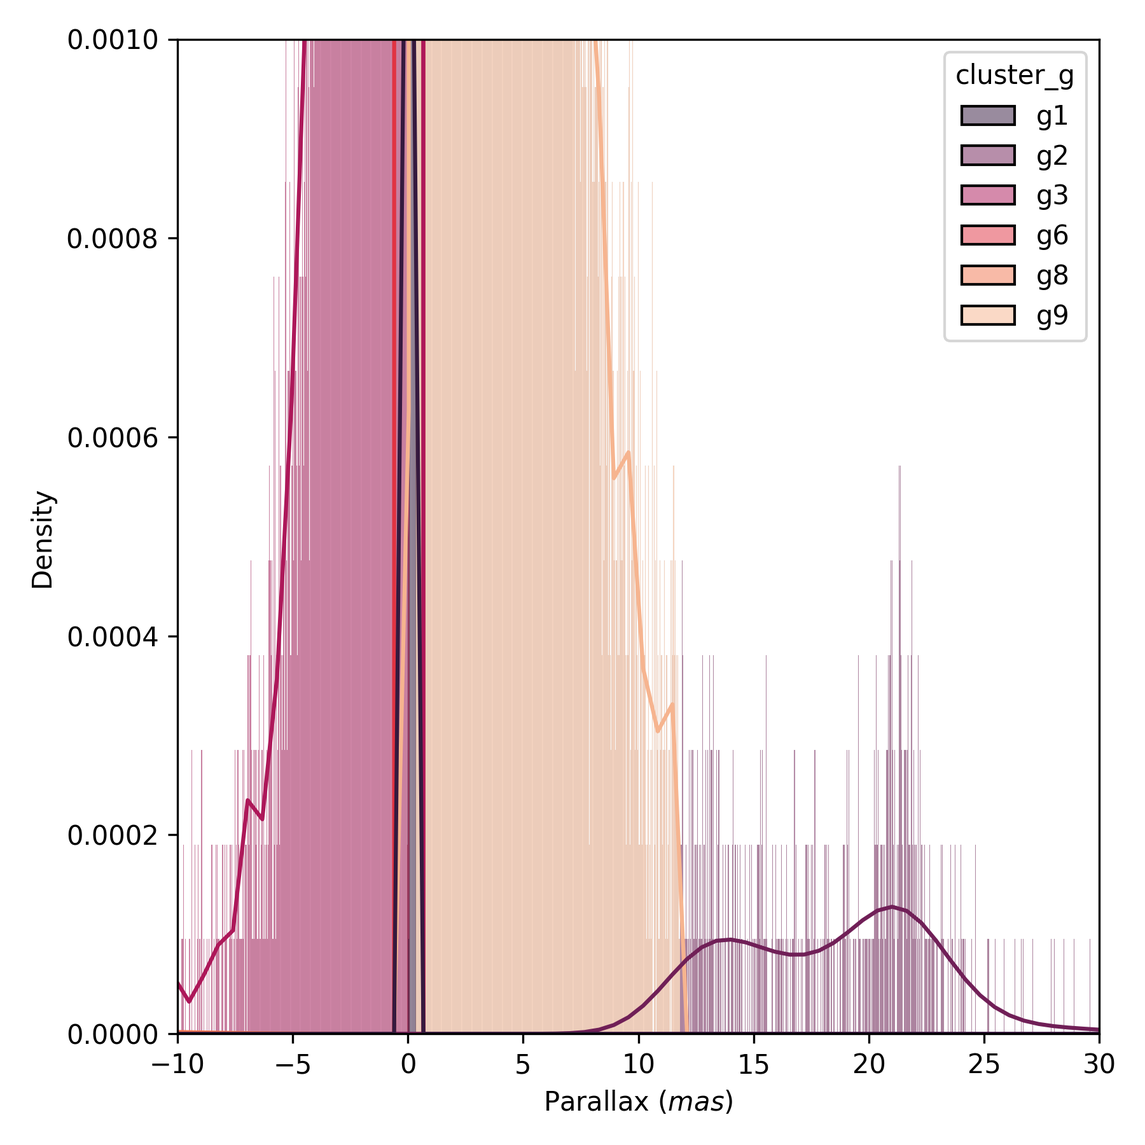
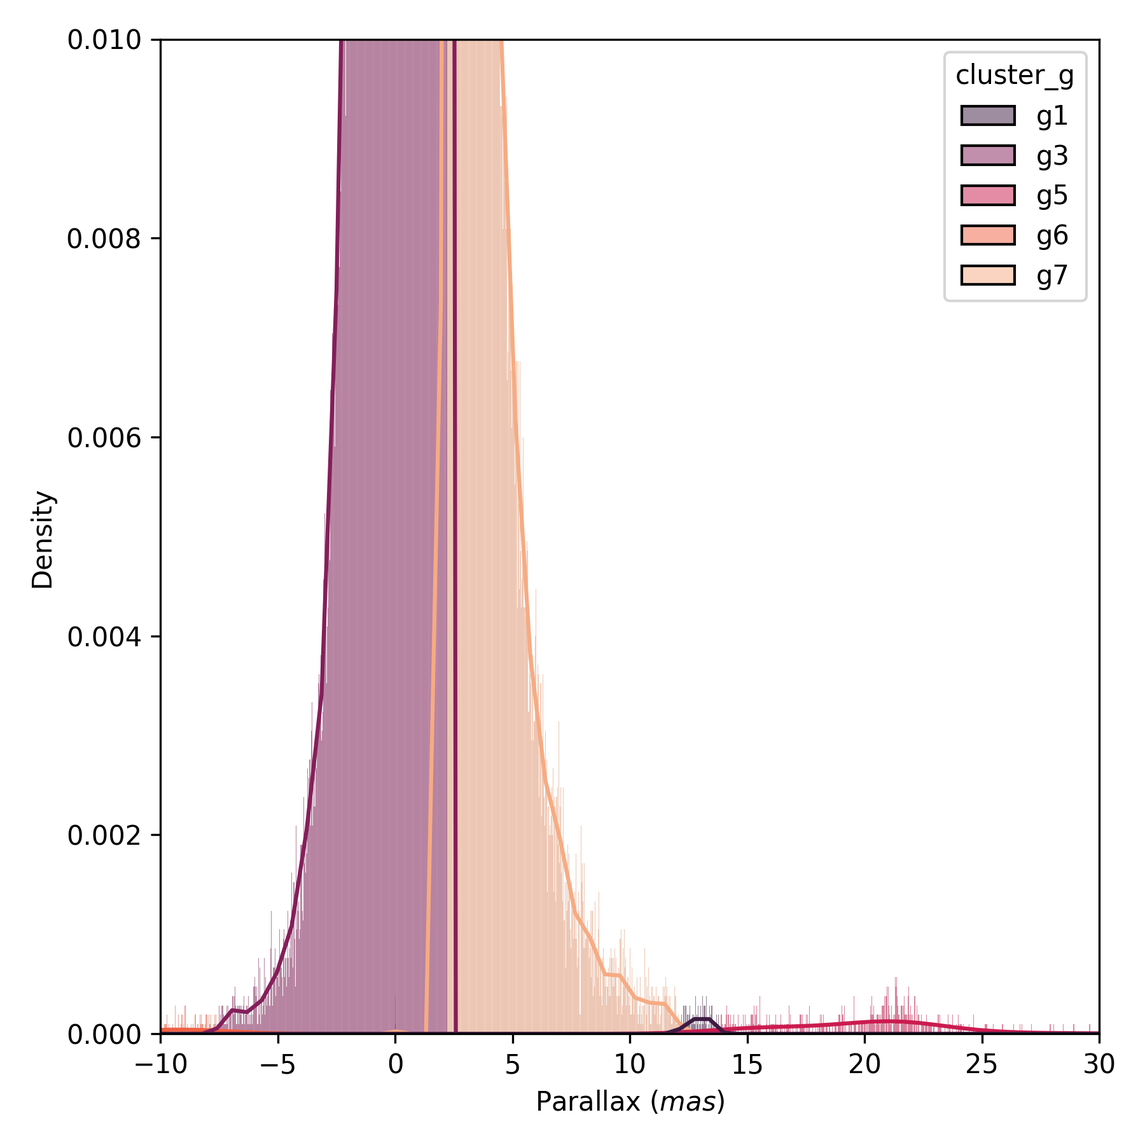
thesis: Review Results

diff --git a/thesis/thesis.tex b/thesis/thesis.tex
@@ -765,12 +765,17 @@ We use it to relate both features and therefore, to force our model to keep them
     \centering
     \includegraphics[width=\textwidth]{../figures/melotte_22/features_melotte_22.png}
   \end{subfigure}
-  \caption{Melotte 22 feature pairplot}
-  % TODO: Ampliar la descripción de la figura
+  \caption{Pairwise relationships among variables using Melotte 22 data}
   \label{fig:features_melotte_22}
 \end{figure}
 
 \newpage
+
+Figure \ref{fig:features_melotte_22} shows a pairwise relationship among some features available
+in the dataset for Melotte 22 data.
+The diagonal of the grid shows the marginal distribution of the data in each column.
+This plot can be useful to find correlations between pairs of variables or
+to identify resonances in certain variables such as those in the parallax feature.
 
 In summary, these are the features we are going to use as sources for our clustering models:
 
@@ -866,7 +871,6 @@ It shows how to estimate the best number of clusters for Melotte 22 by using \ve
 \begin{minted}{python}
   n_clusters, kmeans = estimate_n_clusters(melotte22_df,
                                            min_clusters=3, max_clusters=7)
-  # Output
   # Silhouette score for 3 clusters: 0.5420
   # Silhouette score for 4 clusters: 0.5393
   # Silhouette score for 5 clusters: 0.5608
@@ -1071,7 +1075,7 @@ Clusterix+TOPCAT method, and the results obtained for each step of this method (
 \begin{table}[h!]
   \begin{center}
     \begin{tabular}{l|c|c|c|c}
-      \textbf{Source / method} & \textbf{$\mu_{\alpha}$ $(mas/yr^{-1})$} & \textbf{$\mu_{\delta}$ $(mas/yr^{-1})$} & \textbf{$\varpi$ $(mas)$} & \emph{\# stars} \\
+      \textbf{Source / method} & \emph{$\mu_{\alpha}$ $(mas/yr^{-1})$} & \emph{$\mu_{\delta}$ $(mas/yr^{-1})$} & \emph{$\varpi$ $(mas)$} & \emph{\# stars} \\
       \hline
       \textbf{Simbad.u-strasbg.fr}\tablefootnote{Results have been taken from \protect\citeA[p.~25. Table A.3. Pleiades]{babusiaux2018gaia}} &
         19.997 $\pm$ 0.127 & -45.548 $\pm$ 0.101 & 7.364 $\pm$ 0.005 & 1326 \\
@@ -1080,30 +1084,34 @@ Clusterix+TOPCAT method, and the results obtained for each step of this method (
       DEC & 23.67 $\pm$ 38.33 & -46.23 $\pm$ 44.54 & 8.04 $\pm$ 2.59 & 878 \\
       \textbf{DEC (filtered)} & 19.50 $\pm$ 8.59 & -44.23 $\pm$ 8.17 & 7.42 $\pm$ 0.1 & 438 \\
     \end{tabular}
-    \caption{Melotte 22. The parameters shown are proper motion in right ascension and declination, parallax and number of stars with their respective deviations.}
+    \caption{Parameters shown are proper motion in right ascension and declination, parallax
+             with their respective deviations and number of stars corresponding to Melotte 22 data.}
     \label{tab:results_melotte_22}
   \end{center}
 \end{table}
 
 \chapter{Results}
 
-We have seen in the previous chapter that the DEC model is capable of refining the clustering selection made by K-Means
+We have seen in the previous chapter that DEC model is capable
+of refining the clustering selection made by K-Means
 hence helping us have a more precise characterization of the cluster.
-Now, in order to validate our model and be able to estimate how good or bad it is,
-we need a different method to characterize the studied clusters and compare our results with the validation method.
+Now, in order to validate our model and to be able to estimate how good or bad it is,
+we need a different technique to characterize the studied clusters and compare our results
+with those obtained with the validation method.
 
-For that purpose, we have used an alternative method based on Virtual Observatory (VO) tools such as Clusterix and TOPCAT,
-to characterize the studied clusters.
+For that purpose, we have used an alternative method based on Virtual Observatory (VO) tools
+such as Clusterix and TOPCAT, to characterize the studied clusters.
 
 \section{Cluster Characterization with VO Tools}
 
-The aim of this section is to highlight the procedure differences between our method and this new one,
-as well as using the results provided by this method to validate ours results.
-This validation method uses a combination of VO tools: Clusterix 2.0 + TOPCAT.
-We take Melotte 22 again as our study case to make easier comparisons between the method presented in Chapter \ref{chap:method}
-and this alternative one.
+The aim of this section is to highlight the procedure differences between our method and the validation one,
+as well as using the results provided by the second technique to validate ours results.
+This validation method uses a combination of VO tools: \emph{Clusterix 2.0 + TOPCAT}.
+We take Melotte 22 again as our study case to make easier the comparison process between
+the method presented in Chapter \ref{chap:method} and the alternative one.
 
-The initial point is taking advantage of Clusterix in order to avoid a subjective and manual selection for the cluster members.
+The initial point is taking advantage of Clusterix in order to avoid a subjective
+and manual selection for the cluster members.
 Figure \ref{fig:clusterix_selection} shows a screenshot of the Clusterix 2.0 selection panel.
 
 \begin{figure}[htbp]
@@ -1113,21 +1121,24 @@ Figure \ref{fig:clusterix_selection} shows a screenshot of the Clusterix 2.0 sel
     \includegraphics[width=\textwidth]{../figures/clusterix/clusterix_selection_panel_melotte_22.png}
   \end{subfigure}
   \caption{Clusterix 2.0 selection panel with Melotte 22 settings.
-           The coordinates correspond to the center of Melotte 22 cluster,
+           Coordinates correspond to the center of Melotte 22 cluster,
            while the radius is the value registered for this cluster in the
            OpenClust catalogue multiplied by 1.5 (as explained in \ref{sec:data_mining})}
   \label{fig:clusterix_selection}
 \end{figure}
 
-This panel allows us to select a region by its coordinates or by searching a cluster by its name in the Gaia DR2 catalogue,
-as well as specify the size of the region by introducing its radius.
-We can also set limit values in magnitude (for both minimum and maximum) to discard stars outside these limits.
+This panel allows us to select a region by its coordinates
+or by searching a cluster by its name in the Gaia DR2 catalogue,
+as well as to specify the size of the region by introducing its radius.
+We can also set limit values in magnitude (for both minimum and maximum)
+to discard stars outside these limits.
 Another setting is the flag to enable or disable the \emph{Q-Filter}.
 This filter discards those stars with \emph{null} values in relevant fields.
 
-Clusterix returns a position map for the downloaded stars from Gaia DR2 database using Aladin \cite{bonnarel2000aladin} as an atlas of the sky
-(See Figure \ref{fig:aladin_melotte_22}).
-At this point, we can choose sending the recovered data to TOPCAT or Aladin, or continue to the next step of this assistant.
+Clusterix returns a position map for the downloaded stars from Gaia DR2 database
+using Aladin \cite{bonnarel2000aladin} as an atlas of the sky (See Figure \ref{fig:aladin_melotte_22}).
+At this point, we can choose sending the recovered data to TOPCAT or Aladin,
+or continue to the next step of the assistant.
 
 We select the second choice and proceed with the proper motion frequency space analysis.
 
@@ -1146,24 +1157,33 @@ In this step, we define three regions that will be used for the frequency analys
 \begin{itemize}
   \item \textbf{Inner region} (\emph{c+f}), with stars that belong to the OC and field stars.
   \item \textbf{External region} or field region (\emph{f}), with stars that do not belong the open cluster.
-  \item \textbf{Void region}. This region is excluded from the analysis since it is supposed to be a transition region with stars that could belong the OC.
+  \item \textbf{Void region}. This region is excluded from the analysis since it is supposed
+                to be a transition region with stars that could belong the OC.
 \end{itemize}
 
-It is necessary to remark the importance of this step, since the selection of these regions is critical to get a good result.
-However, despite how crucial is this selection, there is no general rule to define these regions.
-We only have two references: the radius of the downloaded region and the estimated size for the open cluster that sets the \emph{inner radius}.
-The other two radius must be set by trial and error. In general, they should be large enough to be sure we are not taking polluted regions.
-This is a tedious process that requires several tries before achieving good enough probability values.
+It is necessary to remark the importance of this step,
+since the selection of these regions is critical to get a good result.
+However, despite how crucial this step is, there is no general rule to define these regions.
+We only have two references:
+the radius of the downloaded region and the estimated size for the OC that sets the \emph{inner radius}.
+The other two radius must be set by trial and error.
+In general, they should be large enough to be sure that we are not taking polluted regions.
+This is a tedious process and requires several tries before achieving good enough probability values.
 
-Furthermore, it is necessary to know in advance some additional profiles of the cluster, in addition to the estimated size.
-For example, in the case of Melotte 22, the proper motion in declination direction of the membership stars around $-45 mas \cdot year^{-1}$,
+Furthermore, it is necessary to know in advance some additional profiles of the cluster,
+in addition to the estimated size.
+For example, in the case of Melotte 22, the proper motion in declination direction
+of the membership stars around $-45 mas \cdot year^{-1}$,
 so it is necessary to open the $\mu$ range above the estimated values (in absolute value).
-If we do not do that we lose the possibility of detection, since Clusterix sets this value to $30 mas \cdot year^{-1}$ by default.
-But even in this case, it is necessary to set a threshold for magnitude values, $G \leq 14$, to help getting the right result.
+If we do not do that we lose the possibility of detection,
+since Clusterix sets this value to $30 mas \cdot year^{-1}$ by default.
+But even in this case, it is necessary to set a threshold for magnitude values,
+$G \leq 14$, to help getting the right result.
 Figure \ref{fig:clusterix_step2_melotte_22} shows the region selection panel on Clusterix 2.0.
 
-This makes the selection process an art rather than a science, not to mention the required previous knowledge on certain profiles of the
-objects to characterize. This puts into question the non-parametric character of the method.
+This makes the selection process an art rather than a science,
+not to mention the required previous knowledge on certain profiles of the objects to characterize.
+This puts into question the \emph{non-parameterized} character of the validation method.
 
 \begin{figure}[htbp]
   \centering
@@ -1175,10 +1195,12 @@ objects to characterize. This puts into question the non-parametric character of
   \label{fig:clusterix_step2_melotte_22}
 \end{figure}
 
-After having set all these parameters, Clusterix performs the proper motion frequency analysis and returns the probability field
+After having set all these parameters,
+Clusterix performs the proper motion frequency analysis and returns the probability field
 associated to each star of the whole region (see Figure \ref{fig:clusterix_probability_melotte_22}).
 
-This step can be repeated over and over again, varying radii and other parameters, until finally reach a valid probability that works.
+This step can be repeated over and over again, varying radii and other parameters,
+until finally reach a valid probability that works.
 The last step presents a table with candidate objects and allows to export this dataset to TOPCAT,
 Aladin and VOSA to perform a deeper filtering and analysis based on the results provided by Clusterix.
 
@@ -1194,12 +1216,15 @@ Aladin and VOSA to perform a deeper filtering and analysis based on the results 
 \end{figure}
 
 Once data is available in TOPCAT, we have to carefully analyze the imported data.
-From there, we can perform a first star selection by excluding those stars with probability value lower than 0.8.
+At this point, we can perform a first stars selection by excluding those stars with probability value lower than 0.8.
 This first result can be taken as a good starting point, but we still need to make some fine tunning.
-As we can see in Figure \ref{fig:topcat_prob_selection_melotte_22}, the selection is too restrictive and we have lost too many stars.
+As we can see in Figure \ref{fig:topcat_prob_selection_melotte_22},
+the selection is too restrictive and we have lost too many stars.
 
-Looking at Figure \ref{fig:topcat_prob_parallax_melotte_22}, we can assume that cluster members are around $7.3mas$ in the parallax histogram.
-Also, Figure \ref{fig:topcat_prob_pm_melotte_22} reveals that cluster stars have low scattering rate in the proper motion configuration space.
+Looking at Figure \ref{fig:topcat_prob_parallax_melotte_22},
+we can assume that cluster members are around $7.3mas$ in the parallax histogram.
+Also, Figure \ref{fig:topcat_prob_pm_melotte_22} reveals that cluster stars
+have low scattering rate in the proper motion configuration space.
 
 \begin{figure}[htbp]
   \centering
@@ -1223,9 +1248,11 @@ Also, Figure \ref{fig:topcat_prob_pm_melotte_22} reveals that cluster stars have
   \label{fig:topcat_prob_selection_melotte_22}
 \end{figure}
 
-Taken these observations into account, we can proceed to make a new selection based on parallax properties.
-Our second selection makes use of the values obtained with the previous selection for parallax and its standard deviation and
-selects those stars from the whole set which fall inside the limits $7.304mas \pm 0.797$ (see Figure \ref{fig:topcat_parallax_melotte_22}).
+Taking these observations into account,
+we can proceed to make a new selection based on parallax properties.
+Our second selection makes use of the values obtained with the previous selection
+for parallax and its standard deviation and selects those stars from the whole set
+which fall inside the limits $7.304mas \pm 0.797$ (see Figure \ref{fig:topcat_parallax_melotte_22}).
 
 \begin{figure}[htbp]
   \centering
@@ -1250,7 +1277,8 @@ selects those stars from the whole set which fall inside the limits $7.304mas \p
 \end{figure}
 
 Looking at the H-R diagrams (Figure \ref{fig:clusterix_selection_hr_diagrams_melotte_22}),
-we can compare both selections and see how we have extended the selection without getting too much noise around the isochrone curve.
+we can compare both selections and see how we have extended the selection without
+getting too much noise around the isochrone curve.
 
 \begin{figure}[htbp]
   \centering
@@ -1272,8 +1300,8 @@ we can compare both selections and see how we have extended the selection withou
   \label{fig:clusterix_selection_hr_diagrams_melotte_22}
 \end{figure}
 
-Finally, we filter the second selection by discarding those stars whose parallax relative error in absolute value is behind 0.05
-(see Figure \ref{fig:clusterix_final_selection_melotte_22}).
+Finally, we filter the second selection by discarding those stars whose parallax relative error in absolute value
+is behind 0.05 (see Figure \ref{fig:clusterix_final_selection_melotte_22}).
 
 \begin{figure}[htbp]
   \centering
@@ -1295,13 +1323,13 @@ Finally, we filter the second selection by discarding those stars whose parallax
   \label{fig:clusterix_final_selection_melotte_22}
 \end{figure}
 
-For the sake of completeness, Table \ref{tab:results_melotte_22} is shown again,
-in order to compare the results obtained with the validation method and our method.
+For the sake of completeness, Table \ref{tab:results_melotte_22} is shown again.
+This table summarizes the results obtained with the validation technique and our method.
 
 \begin{table}[h!]
   \begin{center}
     \begin{tabular}{l|c|c|c|c}
-      \textbf{Source / method} & \textbf{$\mu_{\alpha}$ $(mas/yr^{-1})$} & \textbf{$\mu_{\delta}$ $(mas/yr^{-1})$} & \textbf{$\varpi$ $(mas)$} & \emph{\# stars} \\
+      \textbf{Source / method} & \emph{$\mu_{\alpha}$ $(mas/yr^{-1})$} & \emph{$\mu_{\delta}$ $(mas/yr^{-1})$} & \emph{$\varpi$ $(mas)$} & \emph{\# stars} \\
       \hline
       \textbf{Simbad.u-strasbg.fr} & 19.997 $\pm$ 0.127 & -45.548 $\pm$ 0.101 & 7.364 $\pm$ 0.005 & 1326 \\
       \textbf{Clusterix+TOPCAT} & 19.98 $\pm$ 1.25 & -45.47 $\pm$ 1.48 & 7.33 $\pm$ 0.21 & 634 \\
@@ -1318,12 +1346,14 @@ Until now, we have focused our study in the open cluster Melotte 22.
 Since our aim is to get a model that fits well for a wide range of clusters,
 we will now proceed to show some results obtained for a selection of clusters with different topologies.
 
-All results have been computed with an Apple Mac Pro Late 2013, 2.7 GHz 12-Core Intel Xeon E5 with two AMD FirePro D700 6GB and 64 GB
+All results have been computed with an Apple Mac Pro Late 2013,
+2.7 GHz 12-Core Intel Xeon E5 with two AMD FirePro D700 6GB and 64 GB
 of memory, running macOS BigSur 11.1, Keras 2.2 and PlaidML 0.7.
 
-The majority of the runnings have taken a few minutes, while big clusters such as Melotte 25, have taken around an hour to perform
-the computations. This contrasts with \citeA{castro2020hunting} work, that used the power of the MareNostrum 42 supercomputer in order
-to perform its calculations.
+The majority of the runnings have taken a few minutes, while big clusters such as Melotte 25,
+have taken around an hour to perform the computations.
+This contrasts with \citeA{castro2020hunting} work,
+that used the power of the MareNostrum 42 supercomputer in order to perform its computations.
 
 \newpage
 
@@ -1430,7 +1460,7 @@ to perform its calculations.
 \begin{table}[h!]
   \begin{center}
     \begin{tabular}{l|c|c|c|c}
-      \textbf{Source / method} & \textbf{$\mu_{\alpha}$ $(mas/yr^{-1})$} & \textbf{$\mu_{\delta}$ $(mas/yr^{-1})$} & \textbf{$\varpi$ $(mas)$} & \emph{\# stars} \\
+      \textbf{Source / method} & \emph{$\mu_{\alpha}$ $(mas/yr^{-1})$} & \emph{$\mu_{\delta}$ $(mas/yr^{-1})$} & \emph{$\varpi$ $(mas)$} & \emph{\# stars} \\
       \hline
       \textbf{Simbad.u-strasbg.fr} & -4.6579 $\pm$ 0.0075 & 11.1517 $\pm$ 0.0075 & 2.4118 $\pm$ 0.0006 & 1727 \\
       Clusterix+TOPCAT & -4.652 $\pm$ 0.523 & 11.203 $\pm$ 0.454 & 2.409 $\pm$ 0.127 & 638 \\
@@ -1551,7 +1581,7 @@ to perform its calculations.
 \begin{table}[h!]
   \begin{center}
     \begin{tabular}{l|c|c|c|c}
-      \textbf{Source / method} & \textbf{$\mu_{\alpha}$ $(mas/yr^{-1})$} & \textbf{$\mu_{\delta}$ $(mas/yr^{-1})$} & \textbf{$\varpi$ $(mas)$} & \emph{\# stars} \\
+      \textbf{Source / method} & \emph{$\mu_{\alpha}$ $(mas/yr^{-1})$} & \emph{$\mu_{\delta}$ $(mas/yr^{-1})$} & \emph{$\varpi$ $(mas)$} & \emph{\# stars} \\
       \hline
       \textbf{Simbad.u-strasbg.fr} & -36.047 $\pm$ 0.110 & -12.917 $\pm$ 0.066 & 5.371 $\pm$ 0.003 & - \\
       Clusterix+TOPCAT & -36.154 $\pm$ 1.001 & -12.909 $\pm$ 0.806 & 5.327 $\pm$ 0.187 & 371 \\
@@ -1672,7 +1702,7 @@ to perform its calculations.
 \begin{table}[h!]
   \begin{center}
     \begin{tabular}{l|c|c|c|c}
-      \textbf{Source / method} & \textbf{$\mu_{\alpha}$ $(mas/yr^{-1})$} & \textbf{$\mu_{\delta}$ $(mas/yr^{-1})$} & \textbf{$\varpi$ $(mas)$} & \emph{\# stars} \\
+      \textbf{Source / method} & \emph{$\mu_{\alpha}$ $(mas/yr^{-1})$} & \emph{$\mu_{\delta}$ $(mas/yr^{-1})$} & \emph{$\varpi$ $(mas)$} & \emph{\# stars} \\
       \hline
       \textbf{Simbad.u-strasbg.fr} & -10.9737 $\pm$ 0.0064 & -2.9396 $\pm$ 0.0063 & 1.1325 $\pm$ 0.0011 & 1194 \\
       Clusterix+TOPCAT & -10.970 $\pm$ 0.322 & -2.958 $\pm$ 0.327 & 1.142 $\pm$ 0.080 & 649 \\
@@ -1780,7 +1810,7 @@ to perform its calculations.
     \begin{tabular}{l|c}
       \textbf{Hyperparameter} & \textbf{Value} \\
       \hline
-      Number of Clusters & 11 \\
+      Number of Clusters & 9 \\
       Clustering Layer & $\left[ 50, 50, 80 \right]$ \\
       Kernel Initializer Seed & 11 \\
       Quantil Threshold & 0.1 \\
@@ -1793,13 +1823,13 @@ to perform its calculations.
 \begin{table}[h!]
   \begin{center}
     \begin{tabular}{l|c|c|c|c}
-      \textbf{Source / method} & \textbf{$\mu_{\alpha}$ $(mas/yr^{-1})$} & \textbf{$\mu_{\delta}$ $(mas/yr^{-1})$} & \textbf{$\varpi$ $(mas)$} & \emph{\# stars} \\
+      \textbf{Source / method} & \emph{$\mu_{\alpha}$ $(mas/yr^{-1})$} & \emph{$\mu_{\delta}$ $(mas/yr^{-1})$} & \emph{$\varpi$ $(mas)$} & \emph{\# stars} \\
       \hline
       \textbf{Simbad.u-strasbg.fr} & 104.92 $\pm$ 0.12 & -28.00 $\pm$ 0.09 & 21.052 $\pm$ 0.065 & - \\
       Clusterix+TOPCAT & 106.796 $\pm$ 6.229 & -24.870 $\pm$ 5.417 & 21.210 $\pm$ 1.115 & 109 \\
-      KMeans & 81.410 $\pm$ 71.475 & -45.309 $\pm$ 73.945 & 21.056 $\pm$ 6.018 & 365 \\
-      DEC & x $\pm$ x & x $\pm$ x & x $\pm$ x & x \\
-      \textbf{DEC (filtered)} & x $\pm$ x & x $\pm$ x & x $\pm$ x & x \\
+      KMeans & 79.380 $\pm$ 71.691 & -45.314 $\pm$ 73.366 & 20.866 $\pm$ 6.029 & 376 \\
+      DEC & 76.463 $\pm$ 72.023 & -43.941 $\pm$ 72.556 & 20.489 $\pm$ 6.138 & 396 \\
+      \textbf{DEC (filtered)} & 81.795 $\pm$ 65.626 & -40.049 $\pm$ 55.112 & 19.888 $\pm$ 2.251 & 316 \\
     \end{tabular}
     \caption{Melotte 25 results.}
     \label{tab:results_melotte_25}
@@ -1815,34 +1845,60 @@ to perform its calculations.
 We have applied the our proposed method to clusters with different topologies:
 
 \begin{itemize}
-  \item NGC 2516 has it proper motion center deviated from the origin but it is embedded inside a big cloud of stars with similar proper motions.
-  \item NGC 2632 (in addition to Melotte 22) ia s cluster whose proper motion center is not located at the origin and has a well separated parallax center.
+  \item NGC 2516 has it proper motion center deviated from the origin but
+        it is embedded inside a big cloud of stars with similar proper motions.
+  \item NGC 2632 (in addition to Melotte 22) ia s cluster whose proper motion center
+        is not located at the origin and has a well separated parallax center.
   \item NGC 2682, on the other hand, has its parallax centered within the region's gaussian,
         which complicates its detection although its proper motion center is deviated from the origin.
   \item Melotte 25 (as well as Melotte 22) is a cluster closer to us than the other.
         That makes its memebership stars to be more scattered than previous clusters which are more compact.
 \end{itemize}
 
-All of these clusters have a wide variety of diameters, from 25 to 330 arcmin, as well as the number of stars that belong to them.
+All of these clusters have a wide variety of diameters, from 25 to 330 arcmin,
+as well as the number of stars that belong to them.
 NGC 2682 has 3,000 stars while Melotte 25 is composed by more than 400,000 stars.
+More information about the studied clusters is available in Table \ref{tab:clusters_summary}.
 
-% TODO: Meter una tabla con los parámetros de los clusters mencionados
+\begin{table}[h!]
+  \begin{center}
+    \begin{tabular}{l|c|c|c|c}
+      \textbf{Open Cluster} & \emph{$\alpha$ J2000 $(degrees)$} & \emph{$\delta$ J2000 $(degrees)$} & \emph{Radius $(arcmin)$} & \emph{\# stars} \\
+      \hline
+      NGC 2516 & 119.517 & -60.753 & 15 & 12,869 \\
+      NGC 2632 & 130.1 & 19.667 & 35 & 13,167 \\
+      NGC 2682 & 132.825 & 11.8 & 12.5 & 2,839 \\
+      Melotte 22 & 56.75 & 24.117 & 60 & 61,552 \\
+      Melotte 25 & 66.725 & 15.867 & 165 & 433,996 \\
+    \end{tabular}
+    \caption{Righ ascension, declination, radius and number of stars of studied clusters.
+             The number of stars corresponds to those stars contained within a cone of center
+             $(\alpha, \delta)$ and raius the cluster's radius multiplied by a factor of 1.5.}
+    \label{tab:clusters_summary}
+  \end{center}
+\end{table}
 
-% TODO: Determinar correctamente los errores en las medidas y mencionarlos
+In all cases, the model has resolved properly the identity of the cluster
+and has characterized the membership stars,
+giving compatible results with the ones obtained with classic procedures and VO tools.
 
-In all cases, the model has resolved properly the identity of the cluster and has characterized the membership stars,
-giving results compatible with the ones obtained with classic procedures and VO tools.
+Compared with the mentioned tools, our model can be fully calified as a non-parameterized model
+since it does not depend on parameters referred to the cluster itself
+but only hyperparameters such as the initial number of clusters to be found,
+or the structure of the Clustering Layer used by DEC model.
 
-Compared with the mentioned tools, our model can be fully calified as a non-parameterized model since it does not depend on parameters referred
-to the clusters itself but only hyperparameters such as the initial number of clusters to find, or the structure of the Clustering Layer used by DEC model.
+Our model is also non-supervised since we do not need to tell the model
+which stars belong to the cluster or assit it while its training stage.
 
-Our model is also non-supervised since we do not need to tell the model which stars belong to the cluster or assit it while is training.
-
-Only at the end of the characterization, a fine tunning driven by the user, can be applied in orther to improve the selection by discarding those
+Only at the end of the characterization, a fine tuning driven by the user,
+can be applied in order to improve the selection by discarding those
 stars which fall outside the given quantiles.
 
-In any case we make assumptions about the cluster profile, something that we have to take into account when using VO tools.
+In any case, we do not make assumptions about the cluster profile,
+something that we have to take into account when using VO tools.
 This is another evidence that our model is non-parameterized.
+
+% TODO: Add references to figures and tables
 
 \chapter{Conclusions and Future Work}
 
